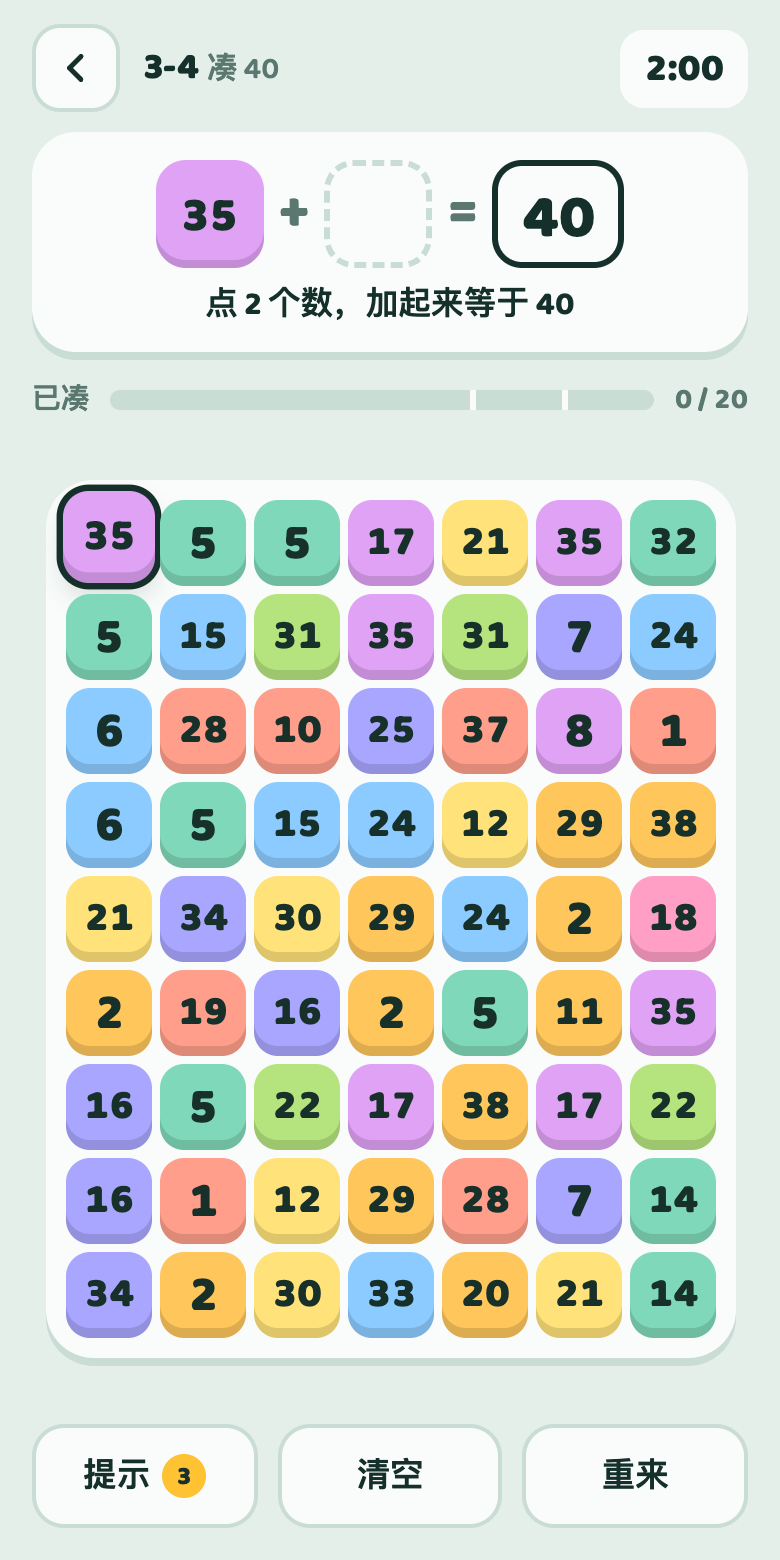
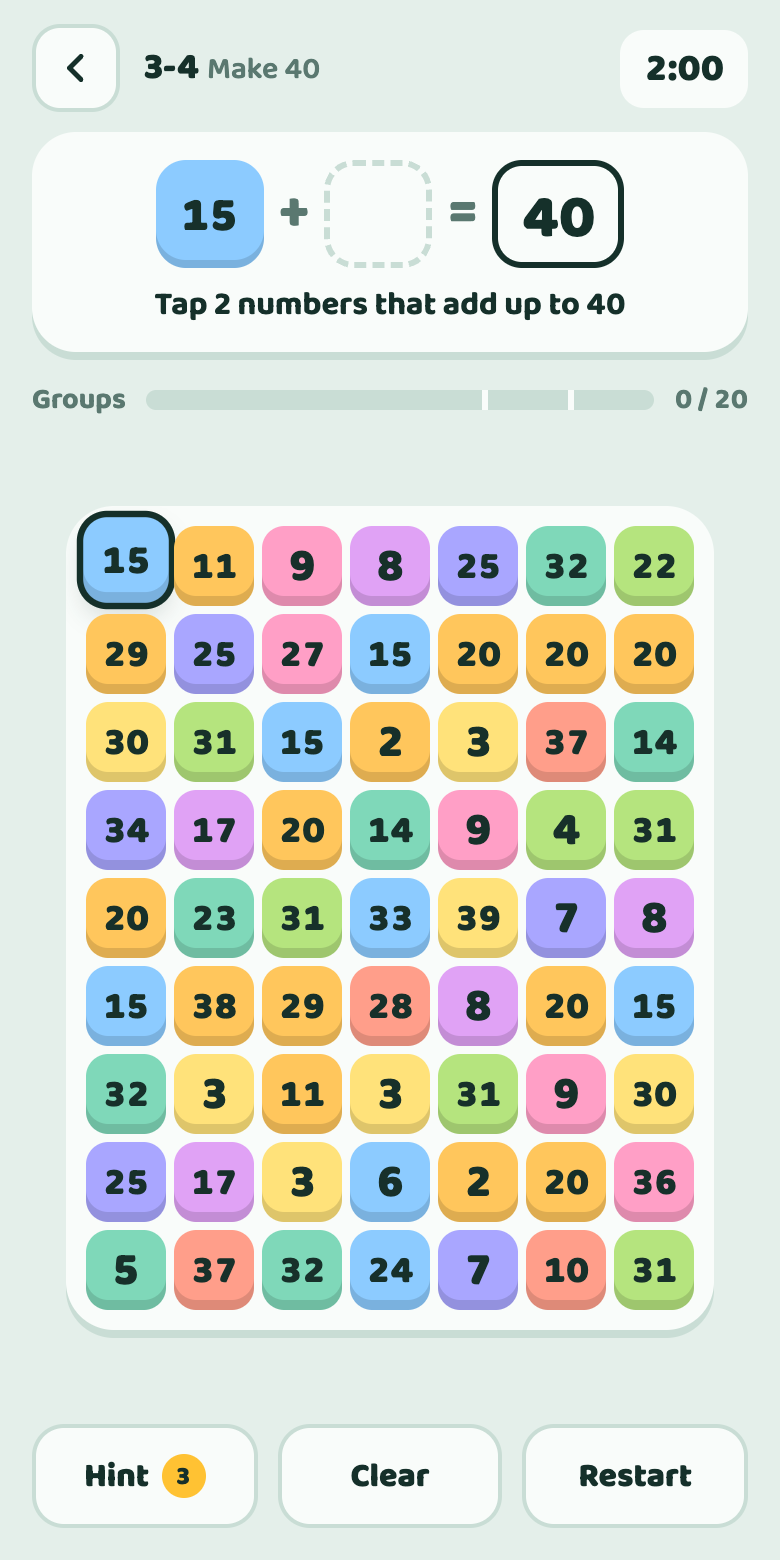
Rewrite README in English and use English screenshots

diff --git a/README.md b/README.md
@@ -1,160 +1,160 @@
-# 凑凑数 Sum Pop
+# Sum Pop (凑凑数)
 
-一个数字配对小游戏：在棋盘上点几个数，让它们加起来正好等于目标数，凑出一组就消掉。限时内凑够组数就过关，凑得越多星星越多。
+A number-matching puzzle game. Tap numbers on the board that add up to the target; each correct group pops off the board. Make enough groups before time runs out to pass the level, and make more to earn more stars.
 
-*A number-matching puzzle: tap numbers that add up to the target before time runs out. Bilingual (中文 / English), built as a web page and packaged as an iOS app with [Capacitor](https://capacitorjs.com/).*
+The game is a plain web page (no framework, no build step), packaged as an iOS app with [Capacitor](https://capacitorjs.com/). The interface is in English and Chinese, and follows the device language.
 
 <p>
-  <img src="docs/home.png" width="260" alt="首页：按等级排列的关卡列表">
+  <img src="docs/home.png" width="260" alt="Home screen: levels grouped by world, with stars earned">
   &nbsp;
-  <img src="docs/game.png" width="260" alt="游戏画面：目标 40，已经点了 30">
+  <img src="docs/game.png" width="260" alt="Game screen: target is 40, the player has tapped 15">
 </p>
 
-关卡从"凑 1"开始，一直到凑 100，后面还有负数和小数：
+Levels start with "Make 1" and go all the way up to 100, then add negative numbers and decimals:
 
-| 等级 | 内容 |
+| Level | What it's about |
 |---|---|
-| 1 小小加法 | 凑 1 到 10，有 0，限时 45 秒，发呆会自动提示（给小朋友） |
-| 2 凑十几 | 凑 11 到 20 |
-| 3 凑整十 | 凑 10、20 …… 100 |
-| 4 负数登场 | 带斜纹的是负数，一次最多点 3 个 |
-| 5 小数点 | 目标是小数 |
+| 1 First Sums | Make 1 to 10, with 0 on the board. 45-second timer, auto-hints when idle (made for young kids) |
+| 2 Teens | Make 11 to 20 |
+| 3 Make Tens | Make 10, 20 … 100 |
+| 4 Negatives | Striped tiles are negative; tap up to 3 numbers |
+| 5 Decimals | The target is a decimal |
 
 ---
 
-## 只想玩一下：用浏览器（不需要 Mac）
+## Just want to play? Use a browser (no Mac needed)
 
-游戏本身就是网页，不用安装任何东西。
+The game is a web page, so there's nothing to install.
 
-**在电脑上玩：** 下载代码后，直接用浏览器打开 `www/index.html`。
+**On a computer:** download the code and open `www/index.html` in your browser.
 
 ```sh
 git clone https://github.com/sslcandoit/sum-pop.git
-open sum-pop/www/index.html        # Windows 上双击这个文件即可
+open sum-pop/www/index.html        # on Windows, just double-click the file
 ```
 
-**在手机浏览器里玩：** 在电脑上开一个本地网页服务，手机和电脑连同一个 Wi-Fi 就能打开。
+**On a phone browser:** start a local web server on your computer, then open it from a phone on the same Wi-Fi network.
 
 ```sh
 cd sum-pop
 python3 -m http.server 8000 -d www
 ```
 
-然后在手机浏览器里打开 `http://<电脑的局域网 IP>:8000`。Mac 可以用 `ipconfig getifaddr en0` 查 IP。在 Safari 里点"分享 → 添加到主屏幕"，用起来就和 App 差不多。
+Then open `http://<your computer's local IP>:8000` on the phone. On a Mac, `ipconfig getifaddr en0` prints the IP. In Safari, **Share → Add to Home Screen** makes it feel almost like an app.
 
-浏览器版和 App 版的玩法完全一样，区别只是 App 有 iPhone 的震动反馈。进度保存在当前浏览器里。
+The browser version plays exactly like the app; the app just adds haptic feedback on iPhone. Progress is saved in that browser.
 
 ---
 
-## 装到自己的 iPhone 上
+## Install it on your own iPhone
 
-### 需要准备
+### What you need
 
-- 一台 Mac，装好 **Xcode 26** 或更新版本（在 App Store 免费下载）
-- **Node.js 22** 或更新版本（[nodejs.org](https://nodejs.org/) 或 `brew install node`）
-- 一个 Apple ID。免费的就行，不需要付费开发者账号
-- iPhone 系统 **iOS 15** 或更新版本，以及一根数据线（第一次需要用线连接）
+- A Mac with **Xcode 26** or later (free on the Mac App Store)
+- **Node.js 22** or later ([nodejs.org](https://nodejs.org/) or `brew install node`)
+- An Apple ID. A free one works; you don't need a paid developer account
+- An iPhone on **iOS 15** or later, and a USB cable for the first install
 
-### 步骤
+### Steps
 
-**1. 下载代码，安装依赖，打开 Xcode**
+**1. Get the code, install dependencies, open Xcode**
 
 ```sh
 git clone https://github.com/sslcandoit/sum-pop.git
 cd sum-pop
 npm install
-npm run ios          # 把 www/ 同步到 iOS 工程，然后打开 Xcode
+npm run ios          # copies www/ into the iOS project, then opens Xcode
 ```
 
-**2. 在 Xcode 里改成你自己的签名**
+**2. Switch the signing to your own account**
 
-这个工程里的签名设置是作者的，你的电脑用不了，需要改两处：
+The project is set up with the author's signing settings, which won't work on your Mac. Change two things:
 
-1. 如果还没登录过 Apple ID：打开 Xcode 菜单 **Settings → Accounts**，点左下角 **+** 添加你的 Apple ID。
-2. 左侧点最上面的 **App** 项目，中间选 **TARGETS → App**，切到 **Signing & Capabilities** 标签页：
-   - **Team**：选你自己的名字，后面带 "(Personal Team)" 的那个就是免费账号。
-   - **Bundle Identifier**：把 `com.sslee.sumpop` 改成你自己的，比如 `com.你的名字.sumpop`。这个标识已经被作者的账号占用了，不改的话会签名失败。
+1. If you haven't added your Apple ID to Xcode yet: open **Xcode → Settings → Accounts**, click **+** in the bottom-left corner and sign in.
+2. In the left sidebar, click the top **App** project. In the middle pane, select **TARGETS → App**, then open the **Signing & Capabilities** tab:
+   - **Team**: pick your own name. A free account shows up as "(Personal Team)".
+   - **Bundle Identifier**: change `com.sslee.sumpop` to something of your own, such as `com.yourname.sumpop`. The original ID is already registered to the author's account, so signing fails if you keep it.
 
-**3. 打开 iPhone 的开发者模式**
+**3. Turn on Developer Mode on the iPhone**
 
-1. 用数据线把 iPhone 连到 Mac，手机上弹出"要信任此电脑吗"时选 **信任**。
-2. 在 iPhone 上打开 **设置 → 隐私与安全性 → 开发者模式**，打开它，手机会重启。重启后再确认一次。
-   如果找不到这个选项，先完成下一步点一次运行，选项就会出现。
+1. Connect the iPhone to the Mac with the cable. When the phone asks **Trust This Computer?**, tap **Trust**.
+2. On the iPhone, go to **Settings → Privacy & Security → Developer Mode** and turn it on. The phone restarts; confirm once more after it boots.
+   If the option isn't there yet, do the next step once (press Run) and it will appear.
 
-**4. 运行**
+**4. Run**
 
-在 Xcode 窗口顶部选择你的 iPhone 作为运行目标，点 **▶ 运行**（或按 ⌘R）。编译完成后，App 会自动安装到手机上并打开。
+At the top of the Xcode window, choose your iPhone as the run destination and press **▶ Run** (⌘R). Xcode builds the app, installs it on the phone and opens it.
 
-第一次打开时如果提示"**不受信任的开发者**"：在 iPhone 上打开 **设置 → 通用 → VPN 与设备管理**，点你的 Apple ID，再点 **信任**。然后回到主屏幕重新打开 App。
+If the first launch says **Untrusted Developer**: on the iPhone, go to **Settings → General → VPN & Device Management**, tap your Apple ID, then tap **Trust**. Go back to the home screen and open the app again.
 
-> **免费 Apple ID 的限制：** 用免费账号安装的 App **7 天后会失效**，打不开了。到时把手机连上 Mac，在 Xcode 里再点一次运行就行，游戏进度不会丢。付费开发者账号安装的 App 有效期是一年。
+> **Limit of a free Apple ID:** apps installed with a free account **stop opening after 7 days**. When that happens, connect the phone and press Run in Xcode again; game progress is kept. With a paid developer account, the install lasts one year.
 
-**不想每次都打开 Xcode？** 签名设置好以后，也可以在命令行里安装：
+**Rather not open Xcode every time?** Once signing is set up, you can install from the command line:
 
 ```sh
-npx cap run ios --list               # 列出可用的设备
-npx cap run ios --target <设备 ID>
+npx cap run ios --list               # list available devices
+npx cap run ios --target <device id>
 ```
 
 ---
 
-## 修改游戏
+## Changing the game
 
-| 文件 | 内容 |
+| File | What's in it |
 |---|---|
-| [`www/levels.js`](www/levels.js) | **所有关卡的配置**。调难度、加关卡只需要改这个文件，每个字段的含义写在文件开头 |
-| [`www/i18n.js`](www/i18n.js) | 中英文界面文字 |
-| [`www/game.js`](www/game.js) | 玩法、渲染、首页、存档 |
-| [`www/style.css`](www/style.css) | 样式 |
-| [`www/index.html`](www/index.html) | 页面结构 |
-| [`design/make_icons.py`](design/make_icons.py) | 生成 App 图标和启动画面（需要 `pip install pillow`） |
-| `ios/` | Xcode 工程，一般不用手动改 |
+| [`www/levels.js`](www/levels.js) | **Every level's settings.** Tuning difficulty or adding levels only touches this file. Each field is explained at the top of the file |
+| [`www/i18n.js`](www/i18n.js) | Interface text in English and Chinese |
+| [`www/game.js`](www/game.js) | Gameplay, rendering, home screen, saved progress |
+| [`www/style.css`](www/style.css) | Styles |
+| [`www/index.html`](www/index.html) | Page structure |
+| [`design/make_icons.py`](design/make_icons.py) | Generates the app icon and launch screen (needs `pip install pillow`) |
+| `ios/` | The Xcode project; normally you don't edit it by hand |
 
-**改关卡的注意事项：**
+**When editing levels:**
 
-- 每关的 `key`（比如 `'tens-40'`）是存档用的名字，**发布后不要再改**，改了玩家这一关的星星和最高纪录就丢了。插入、删除、调换关卡的顺序都没关系，界面上的编号会自动重排。
-- 改完后在浏览器里打开 `www/index.html?check`，页面上会列出配置里的错误，比如 key 重复、字段名拼错、数字池凑不出目标。
+- Each level's `key` (for example `'tens-40'`) is what saved progress is stored under. **Don't rename a key after release**, or players lose their stars and best score for that level. Inserting, removing or reordering levels is fine; the level numbers shown in the game update automatically.
+- After editing, open `www/index.html?check` in a browser. It lists any problems in the level settings, such as duplicate keys, misspelled field names, or a number pool that can't make the target.
 
-**调试用的网址参数：**
+**URL parameters for testing:**
 
-- `index.html?level=2-3`：直接进入第 2 级第 3 关，也可以用 key，比如 `?level=tens-40`
-- `index.html?level=2-3&result=25`：直接看"凑出 25 组"时的结算画面
+- `index.html?level=2-3` jumps straight into level 2, stage 3. A key works too, e.g. `?level=tens-40`
+- `index.html?level=2-3&result=25` shows the results screen as if you'd made 25 groups
 
-**改完后更新手机上的 App：** 修改 `www/` 里的文件后，手机上的 App 不会自动更新。先运行
+**Updating the app on your phone after a change:** editing files in `www/` doesn't update the installed app. First run
 
 ```sh
 npm run sync
 ```
 
-把改动复制进 iOS 工程，然后在 Xcode 里重新点一次 **▶ 运行**。只运行 `sync` 是不够的，手机上还是旧版本。
+to copy your changes into the iOS project, then press **▶ Run** in Xcode again. Running `sync` alone isn't enough; the phone keeps the old version until you run it again from Xcode.
 
 ---
 
-## 发布到 App Store / TestFlight（维护者）
+## Releasing to the App Store / TestFlight (maintainers)
 
-### 前提
+### Prerequisites
 
-- 加入 [Apple Developer Program](https://developer.apple.com/programs/)（每年 99 美元）。免费账号不能发布。
-- 在 [App Store Connect](https://appstoreconnect.apple.com/) 里新建 App，Bundle ID 选 `com.sslee.sumpop`。
+- Membership in the [Apple Developer Program](https://developer.apple.com/programs/) (US$99/year). Free accounts can't publish.
+- An app record in [App Store Connect](https://appstoreconnect.apple.com/) with the Bundle ID `com.sslee.sumpop`.
 
-### 发布前检查
+### Before each release
 
-- [ ] 首页的"**解锁全部关卡（测试用）**"按钮现在对所有玩家都可见，正式发布前要隐藏或删掉（在 `www/index.html` 的 `#unlockBtn`）
-- [ ] 打开 `www/index.html?check`，确认关卡配置没有报错
-- [ ] 每关的 `key` 和上一个版本相比没有被改名
+- [ ] The **"Unlock all levels (testing)"** button on the home screen is currently visible to every player. Hide or remove it before a public release (`#unlockBtn` in `www/index.html`)
+- [ ] Open `www/index.html?check` and make sure the level settings report no problems
+- [ ] No level `key` has been renamed since the previous release
 
-### 每次发版的步骤
+### Release steps
 
-1. **改版本号。** 在 Xcode 里 **TARGETS → App → General**：
-   - **Version**：给玩家看的版本号，比如 `1.0` → `1.1`
-   - **Build**：每次上传都必须比上一次大，比如 `1` → `2`
-2. **同步网页代码：** `npm run sync`
-3. **打包：** Xcode 顶部的运行目标选 **Any iOS Device (arm64)**，然后点菜单 **Product → Archive**。
-4. **上传：** 打包完成后会弹出 Organizer 窗口，选中刚才的包，点 **Distribute App → App Store Connect → Upload**。
-5. **测试：** 上传后等几分钟到几十分钟，新版本会出现在 App Store Connect 的 **TestFlight** 里。把测试的人加进去，他们装 TestFlight App 就能玩，不需要 Mac。
-6. **提交审核：** 在 App Store Connect 里填写截图、描述，选择这个 Build，点"提交以供审核"。
-   隐私问卷可以选"**不收集数据**"：游戏不联网，进度只保存在手机本地。
-7. **在 git 里记一个版本标签：**
+1. **Bump the version.** In Xcode, go to **TARGETS → App → General**:
+   - **Version**: the version players see, e.g. `1.0` → `1.1`
+   - **Build**: must be higher than any build uploaded before, e.g. `1` → `2`
+2. **Sync the web code:** `npm run sync`
+3. **Archive:** set the run destination at the top of Xcode to **Any iOS Device (arm64)**, then choose **Product → Archive**.
+4. **Upload:** when archiving finishes, the Organizer window opens. Select the new archive and click **Distribute App → App Store Connect → Upload**.
+5. **Test:** after a few minutes (sometimes longer), the build appears under **TestFlight** in App Store Connect. Add testers; they install the TestFlight app on their iPhone and can play without a Mac.
+6. **Submit for review:** in App Store Connect, add screenshots and a description, select the build, and click **Add for Review**.
+   For the privacy questionnaire you can answer **Data Not Collected**: the game makes no network requests and keeps progress only on the device.
+7. **Tag the release in git:**
 
    ```sh
    git tag v1.1
